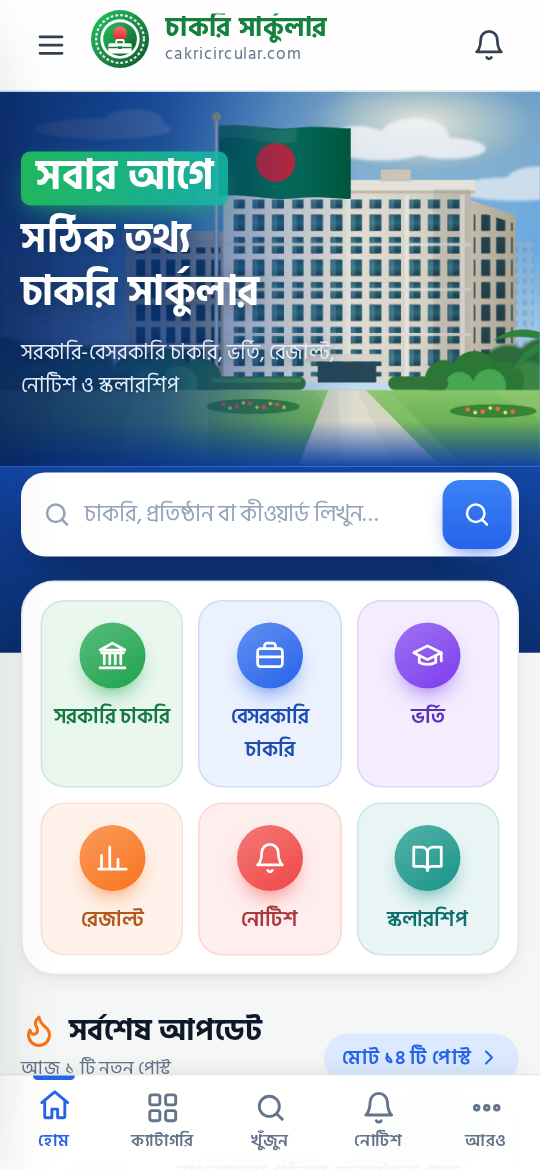
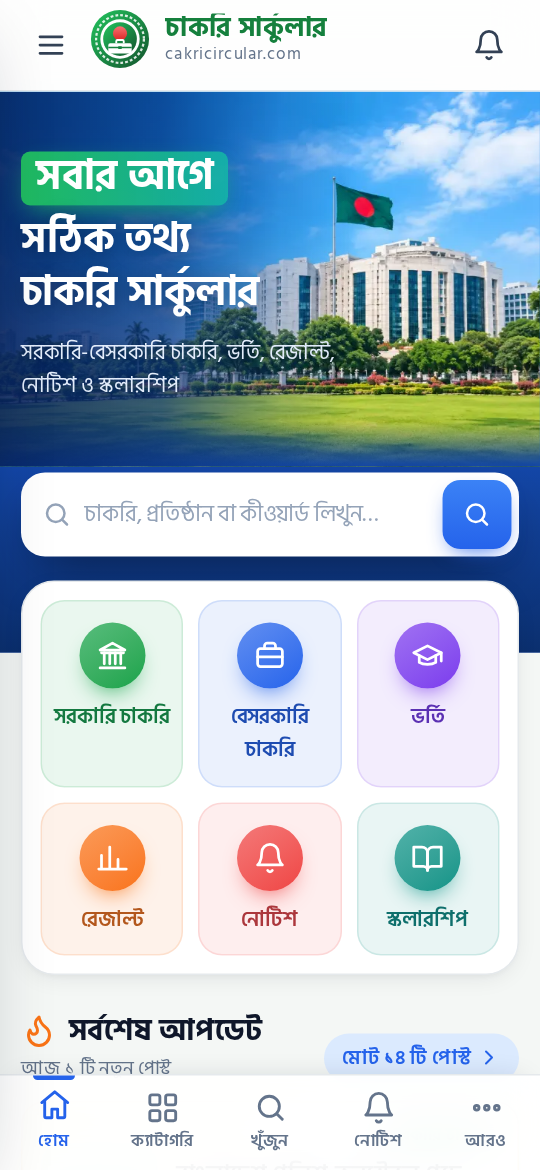
Use the provided photo as home hero background
- Replace illustrated SVG scene with optimised WebP photo (900w/1672w srcset, high priority)
- Admin: hero background image can be changed in Settings → Home & content

Claude-Session: https://claude.ai/code/session_0132RuwErQaieca3Ko9d2iUB

Changed region(s): [[0.0889, 0.0615, 1.0, 0.4], [0.1481, 0.2769, 0.1778, 0.3077], [0.1185, 0.3385, 0.1481, 0.3692]]

diff --git a/cakricircular/public/css/site.css b/cakricircular/public/css/site.css
@@ -199,7 +199,8 @@ ul, ol { margin: 0; padding: 0; }
 /* ---------- hero (scene illustration + search band) ---------- */
 .hero { position: relative; color: #fff; background: var(--hero-2); isolation: isolate; }
 .hero-scene { position: relative; overflow: hidden; min-height: 250px; display: flex; align-items: center; }
-.hero-bg { position: absolute; inset: 0; background: #6fb4ea url('../img/hero-scene.svg') 88% 100% / auto 104% no-repeat; z-index: -2; animation: heroZoom 18s ease-in-out infinite alternate; }
+.hero-bg { position: absolute; inset: 0; z-index: -2; overflow: hidden; background: #3b8fe0; }
+.hero-bg img { width: 100%; height: 100%; object-fit: cover; object-position: 72% 55%; animation: heroZoom 20s ease-in-out infinite alternate; }
 @keyframes heroZoom { to { transform: scale(1.06); } }
 .hero-scene::before { content: ""; position: absolute; inset: 0; z-index: -1;
   background: linear-gradient(90deg, rgba(8, 38, 100, .9) 0%, rgba(10, 52, 128, .72) 30%, rgba(12, 60, 140, .22) 52%, rgba(12, 60, 140, 0) 66%),
@@ -689,7 +690,7 @@ body.hide-bnav .bnav { transform: translateY(110%); }
   .hero-txt { max-width: 560px; }
   .hero h1 { font-size: 46px; }
   .hero p { font-size: 17px; max-width: 44ch; }
-  .hero-bg { background-position: 100% 38%; background-size: cover; }
+  .hero-bg img { object-position: 100% 45%; }
   .hero-band { padding: 0 0 72px; margin-top: -40px; background: transparent; position: relative; }
   .hero-scene::before { background: linear-gradient(90deg, rgba(8, 38, 100, .94) 0%, rgba(10, 52, 128, .8) 30%, rgba(12, 60, 140, .2) 55%, rgba(12, 60, 140, 0) 70%), linear-gradient(0deg, rgba(8, 38, 100, .55) 0%, rgba(8, 38, 100, 0) 35%); }
   .hero { background: linear-gradient(180deg, transparent 0, transparent 460px, var(--hero-1) 460px); }

diff --git a/cakricircular/src/views/admin/pages.js b/cakricircular/src/views/admin/pages.js
@@ -509,6 +509,7 @@ function settingsPage(d) {
 <div data-pane="home" class="card" hidden>
   ${U.field('hero_title', 'হিরো শিরোনাম (প্রতি লাইনে আলাদা)', g('hero_title'), { type: 'textarea', attrs: 'rows="3"' })}
   ${U.field('hero_subtitle', 'হিরো সাবটাইটেল', g('hero_subtitle'))}
+  ${U.fileField('hero_image', 'হিরো ব্যাকগ্রাউন্ড ছবি', g('hero_image') ? uploads.url(g('hero_image')) : '', { hint: 'চওড়া ছবি দিন (১৬:৯)। খালি রাখলে ডিফল্ট ছবি দেখাবে' })}
   <div class="grid3">${U.field('per_page', 'প্রতি পেজে পোস্ট', g('per_page'), { type: 'number', attrs: 'min="4" max="60"' })}${U.field('notice_limit', 'নোটিশ লিমিট', g('notice_limit'), { type: 'number', attrs: 'min="5" max="500"' })}${U.field('promo_gap', 'প্রিমিয়াম বিরতি (promo_gap)', g('promo_gap'), { type: 'number', attrs: 'min="2" max="30"', hint: 'প্রতি কয়টি পোস্ট পর একটি প্রিমিয়াম' })}</div>
   <div class="grid3">${U.field('related_count', 'সম্পর্কিত পোস্ট', g('related_count'), { type: 'number', attrs: 'min="0" max="24"' })}${U.field('trash_days', 'ট্র্যাশ অটো-মুছবে (দিন)', g('trash_days'), { type: 'number' })}${U.field('report_limit_per_hour', 'রিপোর্ট লিমিট/ঘণ্টা', g('report_limit_per_hour'), { type: 'number' })}</div>
   <h3>নোটিফিকেশন</h3>

diff --git a/cakricircular/src/views/site/pages.js b/cakricircular/src/views/site/pages.js
@@ -12,6 +12,13 @@ function heroTitle() {
   return String(settings.get('hero_title') || '').split('\n').map((l, i) => html`<span class="l${i}">${l}</span>`);
 }
 
+function heroImage() {
+  const custom = settings.get('hero_image');
+  if (custom) return html`<img src="${uploads.url(custom)}" alt="" fetchpriority="high" decoding="async" width="1672" height="940">`;
+  const { asset } = require('../../assets');
+  return html`<img src="${asset('img/hero-photo.webp')}" srcset="${asset('img/hero-photo-m.webp')} 900w, ${asset('img/hero-photo.webp')} 1672w" sizes="100vw" alt="" fetchpriority="high" decoding="async" width="1672" height="940">`;
+}
+
 function slider(banners) {
   if (!banners.length) return '';
   return html`<section class="slider" data-slider aria-roledescription="carousel" aria-label="ব্যানার">
@@ -48,7 +55,7 @@ function home(ctx) {
   return html`<div class="home">
   <section class="hero">
     <div class="hero-scene">
-      <div class="hero-bg" aria-hidden="true"></div>
+      <div class="hero-bg" aria-hidden="true">${heroImage()}</div>
       <div class="wrap hero-in">
         <div class="hero-txt">
           <h1>${heroTitle()}</h1>

diff --git a/cakricircular/src/settings.js b/cakricircular/src/settings.js
@@ -10,6 +10,7 @@ const DEFAULTS = {
   hero_title: 'সবার আগে\nসঠিক তথ্য\nচাকরি সার্কুলার',
   hero_subtitle: 'সরকারি-বেসরকারি চাকরি, ভর্তি, রেজাল্ট, নোটিশ ও স্কলারশিপ',
   logo: '',
+  hero_image: '',
   favicon: '',
   theme_color: '#15803d',
   footer_about: 'চাকরি সার্কুলার বাংলাদেশের একটি বিশ্বস্ত চাকরি ও নিয়োগ তথ্যভিত্তিক প্ল্যাটফর্ম। সরকারি-বেসরকারি চাকরি, ভর্তি, রেজাল্ট, নোটিশ ও স্কলারশিপের সর্বশেষ তথ্য সবার আগে সহজে পৌঁছে দিতে কাজ করছি।',

diff --git a/cakricircular/src/util/uploads.js b/cakricircular/src/util/uploads.js
@@ -78,6 +78,10 @@ async function saveImage(buf, kind = 'thumb') {
       factory = () => sharp(buf, { failOn: 'none' }).rotate().resize(856, 292, { fit: 'cover', position: 'attention' });
       target = 200 * 1024;
       break;
+    case 'hero':
+      factory = () => sharp(buf, { failOn: 'none' }).rotate().resize(1920, 1080, { fit: 'inside', withoutEnlargement: true });
+      target = 260 * 1024;
+      break;
     case 'avatar':
       factory = () => sharp(buf, { failOn: 'none' }).rotate().resize(400, 400, { fit: 'cover', position: 'attention' });
       target = 60 * 1024;

diff --git a/cakricircular/src/admin/routes.js b/cakricircular/src/admin/routes.js
@@ -626,7 +626,7 @@ router.post('/settings', auth.can('settings'), wrap(async (req, res) => {
     if (p !== settings.get('admin_path')) { vals.admin_path = p; newPath = `/${p}/settings`; }
   }
   try {
-    for (const [name, kind] of [['logo', 'logo'], ['favicon', 'favicon'], ['og_image', 'thumb']]) {
+    for (const [name, kind] of [['logo', 'logo'], ['favicon', 'favicon'], ['og_image', 'thumb'], ['hero_image', 'hero']]) {
       const f = file(req, name);
       if (f) {
         vals[name] = await uploads.saveImage(f.buffer, kind);
